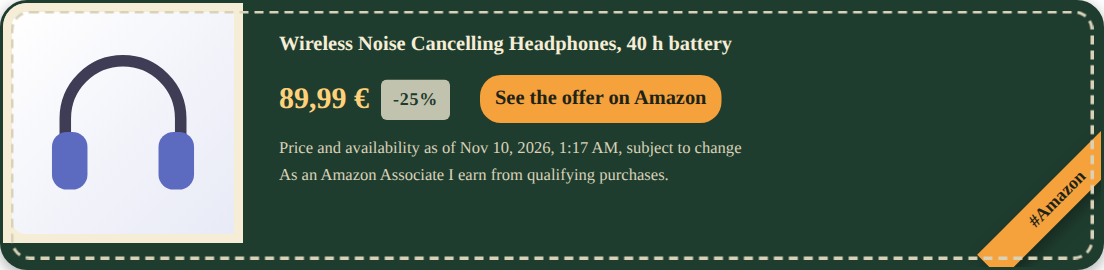
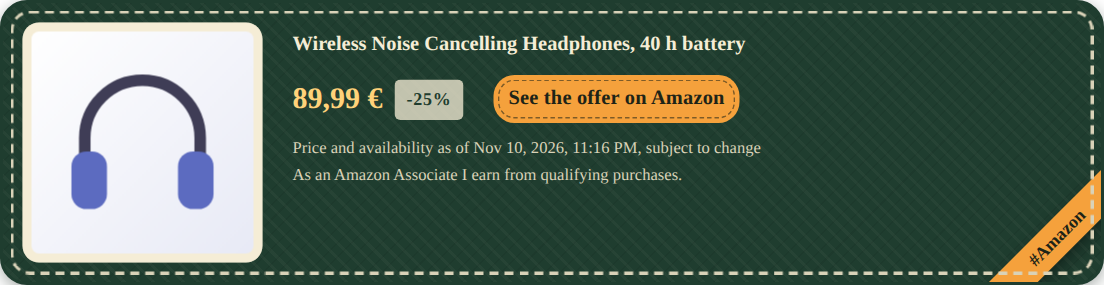
style(widget): refine the outdoor theme (#504)
The product now sits in a rounded window inside the stitching, which no
longer runs over it, and no dark strip shows under it. The cloth gets a
faint twill, and the button a stitched outline like a sewn-on tab, with
its own focus ring. Contrast is unchanged (axe passes).

Closes #503

Changed region(s): [[0.0, 0.0, 1.0, 1.0], [0.9855, 0.0593, 1.0, 0.1185], [0.9855, 0.1481, 1.0, 0.1778]]

diff --git a/src/widgets/themes/outdoor.css b/src/widgets/themes/outdoor.css
@@ -40,5 +40,35 @@
 }
 
 .amw-widget[data-amw-theme="outdoor"] .amw-widget-body {
-    padding: 18px 24px;
+    padding: 18px 26px 18px 20px;
+}
+
+/* A twill weave: two faint diagonals, so that the cloth reads as cloth without hurting the text */
+.amw-widget[data-amw-theme="outdoor"]:not(.amw-widget-lazy) {
+    background-image:
+        repeating-linear-gradient(45deg, rgba(245, 237, 214, 0.035) 0 2px, transparent 2px 7px),
+        repeating-linear-gradient(-45deg, rgba(0, 0, 0, 0.06) 0 1px, transparent 1px 7px);
+}
+
+/* The product sits in a window inside the stitching, rather than under it */
+.amw-widget[data-amw-theme="outdoor"] .amw-widget-img-container {
+    margin: 13px 0 13px 13px;
+    border-radius: 11px;
+    box-shadow: inset 0 0 0 2px rgba(31, 61, 47, 0.18);
+}
+
+.amw-widget[data-amw-theme="outdoor"] .amw-widget-img {
+    border-radius: 11px;
+}
+
+/* A stitched button, like a sewn-on tab */
+.amw-widget[data-amw-theme="outdoor"] .amw-widget-btn-warning {
+    outline: 1.5px dashed rgba(29, 36, 23, 0.55);
+    outline-offset: -4px;
+    letter-spacing: 0.01em;
+}
+
+.amw-widget[data-amw-theme="outdoor"] .amw-widget-btn-warning:focus-visible {
+    outline: 3px solid var(--amw-focus);
+    outline-offset: 2px;
 }
